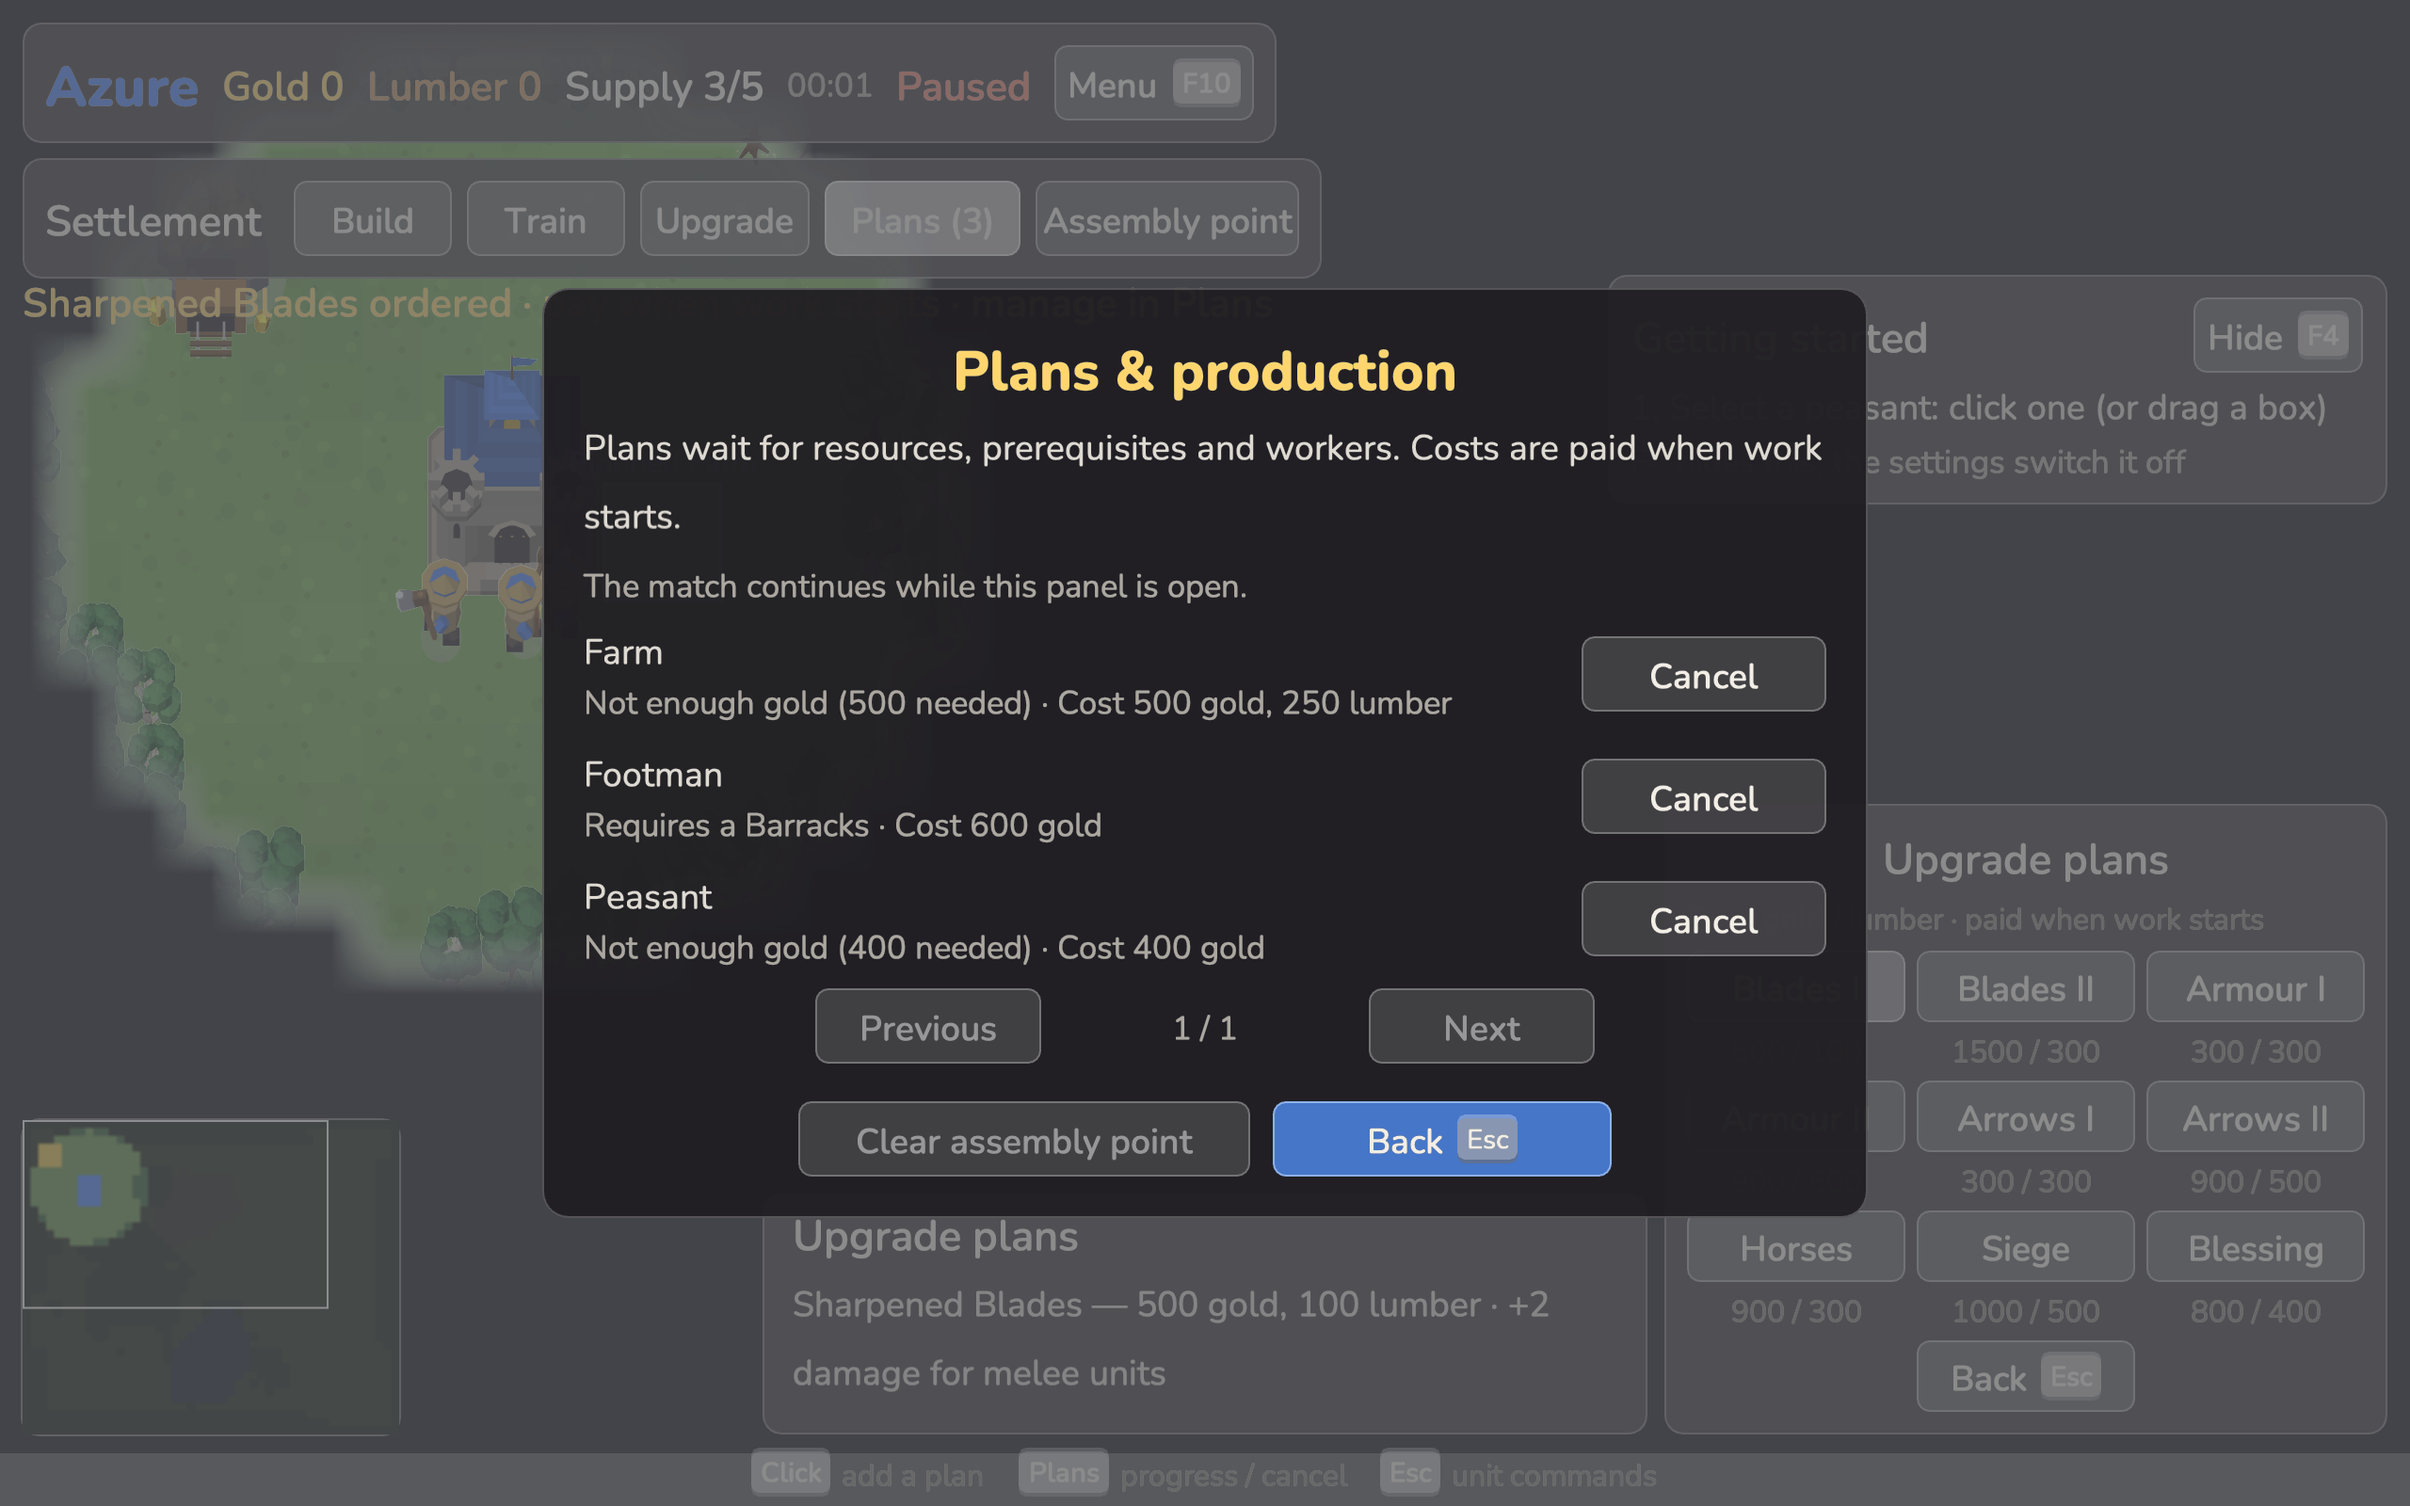
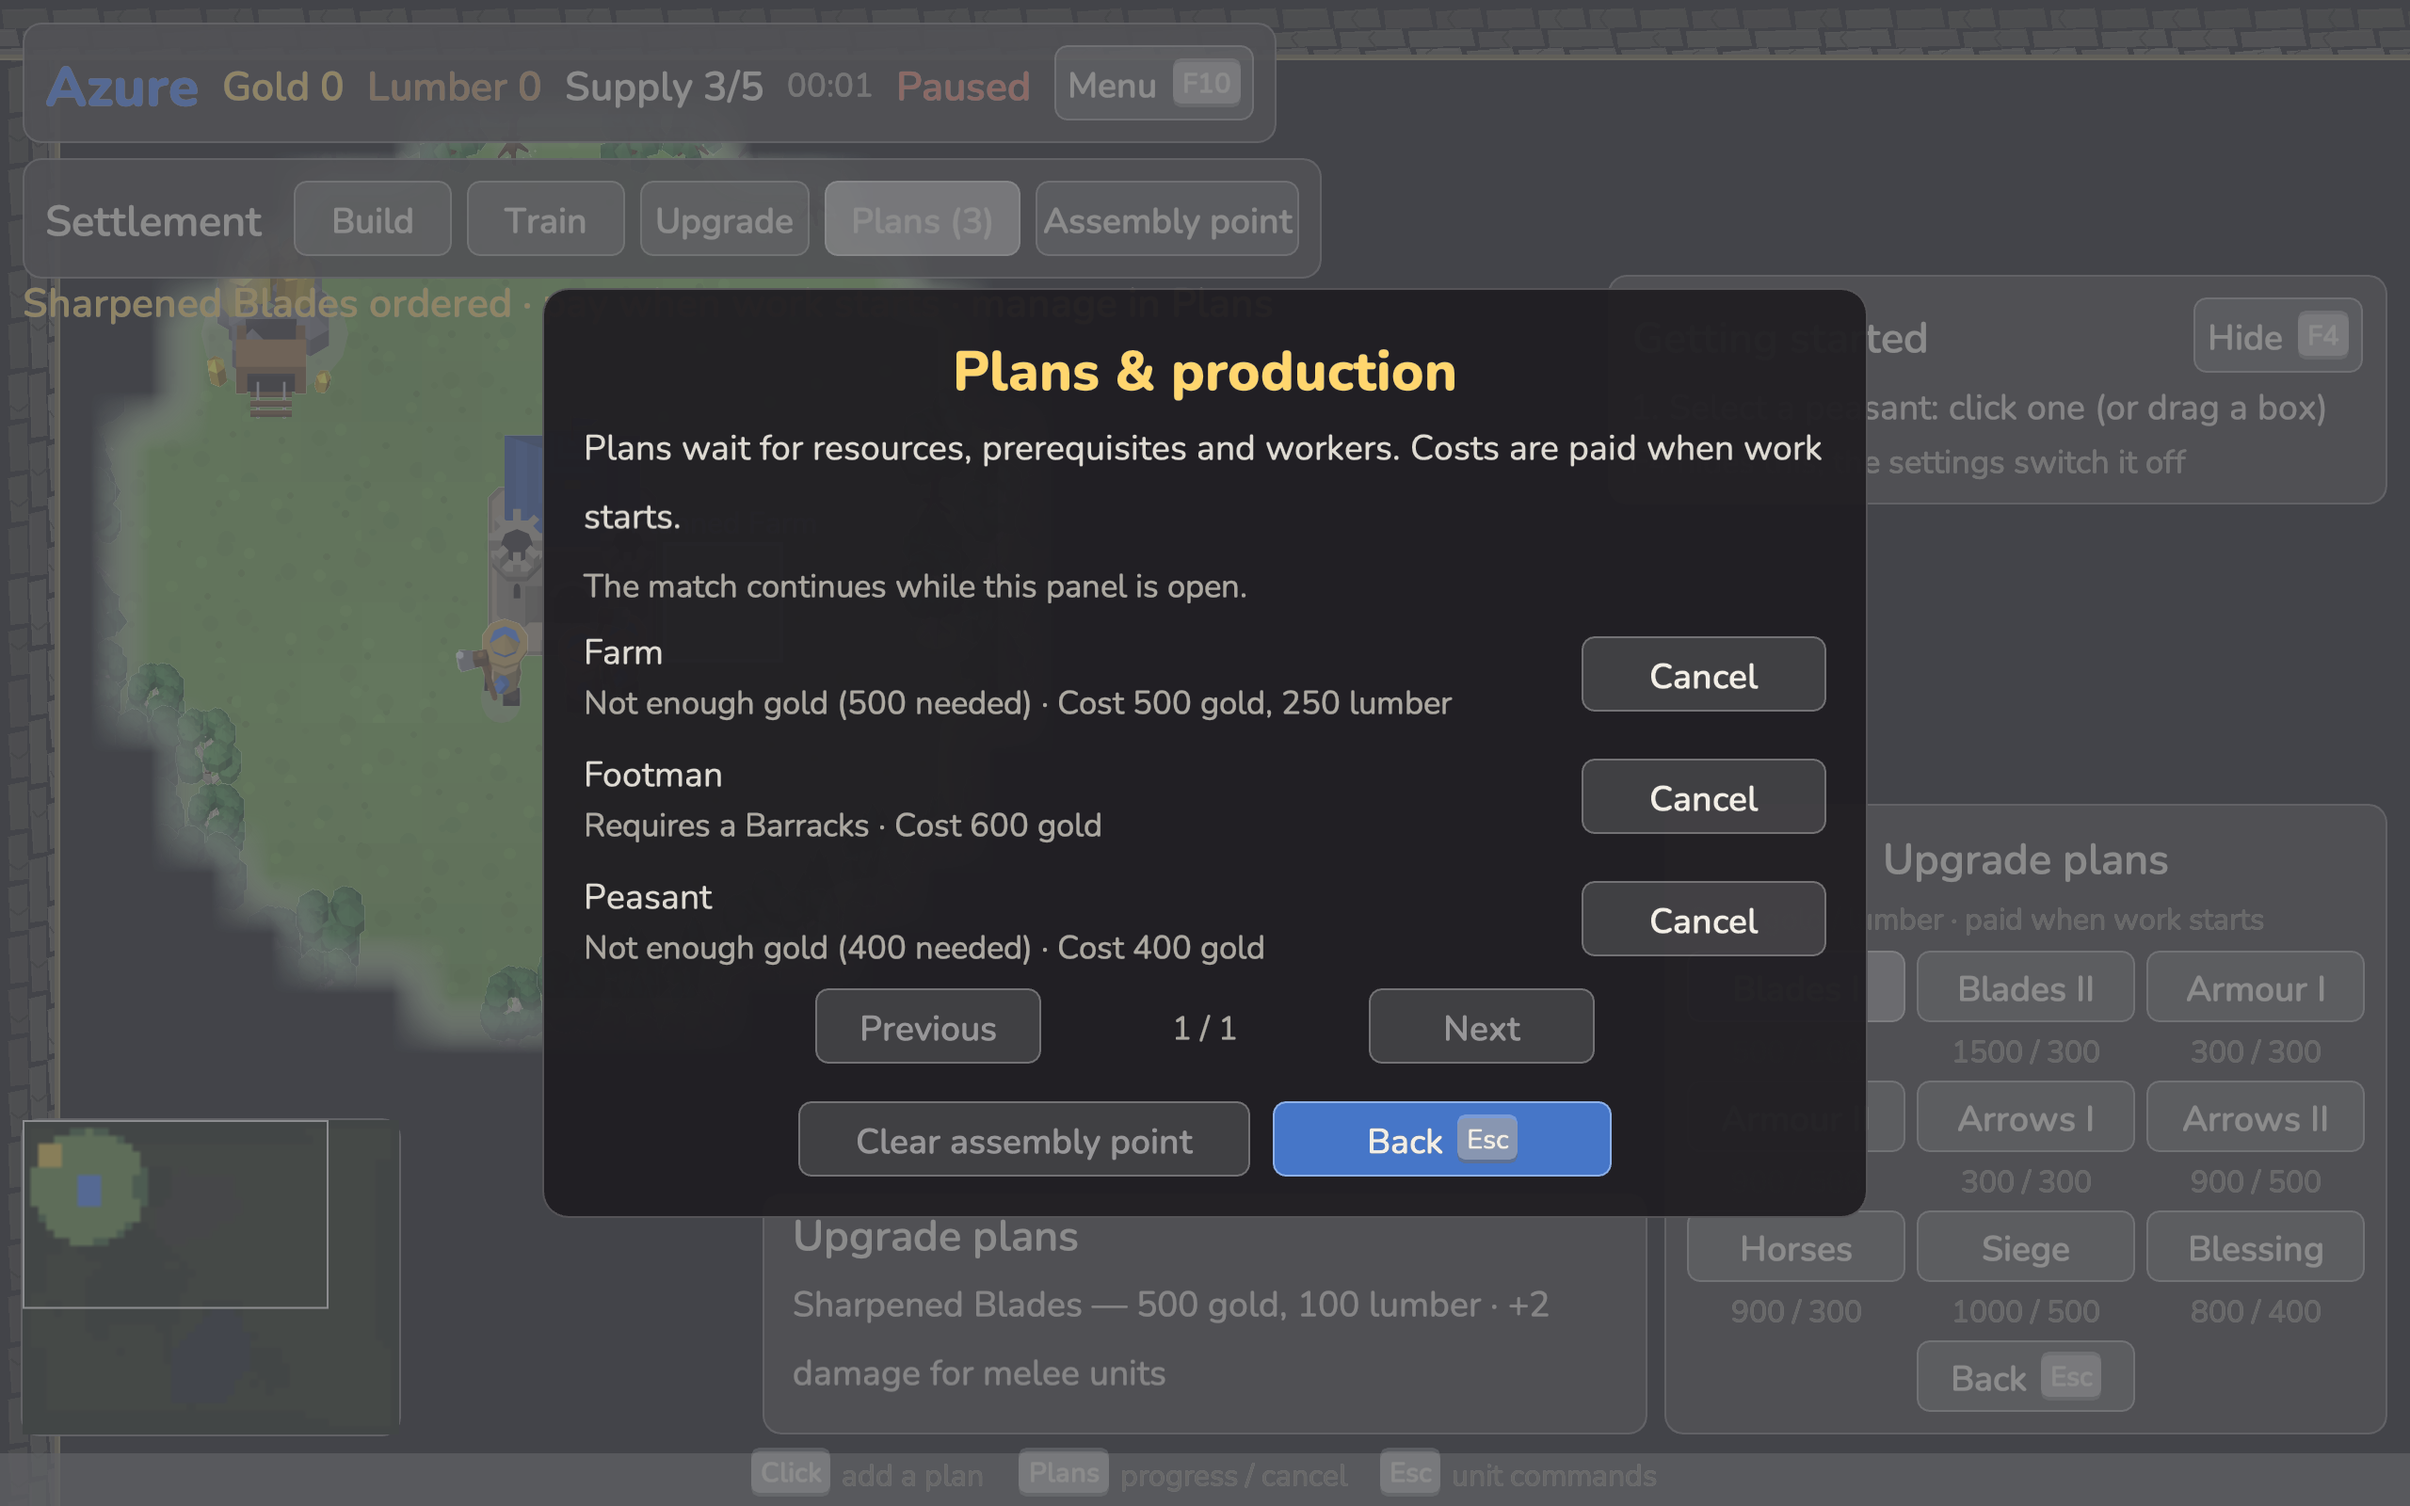
Record installed preview3 Mac and stable overlay rendering acceptance

diff --git a/docs/evidence/warband-map-workers-2026-09-08/mac-package/README.md b/docs/evidence/warband-map-workers-2026-09-08/mac-package/README.md
@@ -1,0 +1,34 @@
+# Preview.3 installed Mac acceptance
+
+Version **0.1.0-preview.3**, immutable source
+`85becd0fda8493fffc14ad33baee32f4fccdee64`. Built from a clean detached checkout
+with pinned CPython 3.13.2 and packaging dependencies.
+
+The extracted portable executable passed real loopback socket and native
+acceptance. The installed `/Applications/Warband.app` separately passed
+against `wss://games.tachyon-ai.eu/play`, using isolated diagnostic profiles:
+
+- Create/join, authoritative movement, rejected foreign orders and private
+  seat reconnection.
+- Global unit/upgrade orders, assembly point, automatic worker assignment to
+  a building plan and plan cancellation.
+- Actual mouse/key input through create/copy/paste/join, the global Train
+  catalogue, a waiting Footman plan, cancellation, and the live Match menu.
+
+Nine `installed-native*.png` frames identify the exact installed binary.
+The second player's base remains in position beneath Plans and Match menu;
+the shared camera regression has both scene-stack and native-pixel coverage.
+The opening banner is still naturally present in the early match captures.
+Apple M4 / OpenGL 4.1 Metal supplied native rendering; the 87-sound catalogue
+was generated and loaded with audio muted.
+
+`local-install.json` records installation time, both executable hashes and
+the preserved preview.2 app backup. Existing settings and saved games were
+not changed. The final app ZIP was extracted; its executable hash matches
+the installed app and deep, strict ad-hoc signature verification passed.
+The Mac archive hash is in `mac-SHA256SUMS` and `mac-build-manifest.json`.
+Ad-hoc signing is not Developer ID notarization.
+
+`mac-verification.json` keeps portable acceptance separate from
+`installed_public_server` and `installed_native`. These automated flows
+do not represent a full match between two human players.
